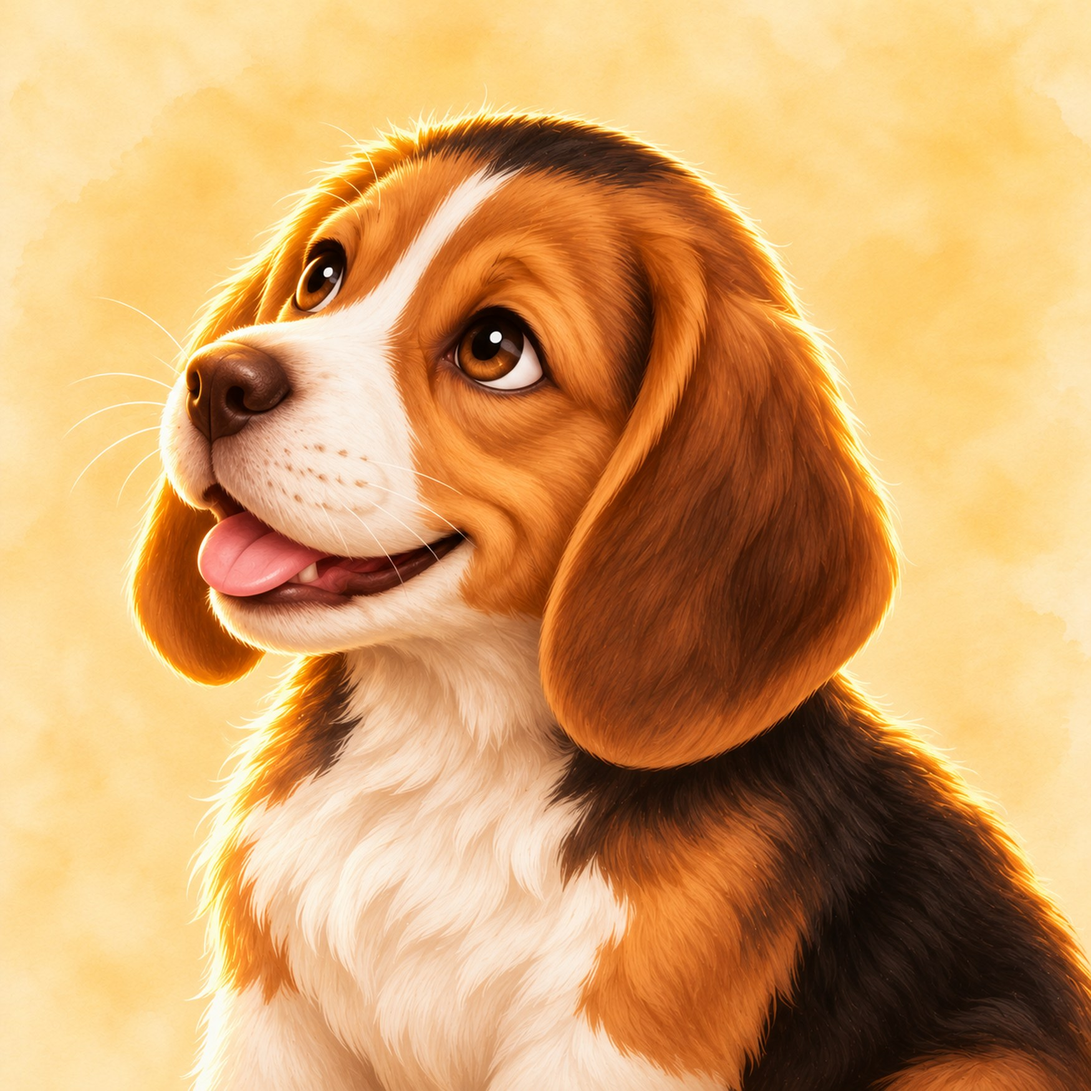
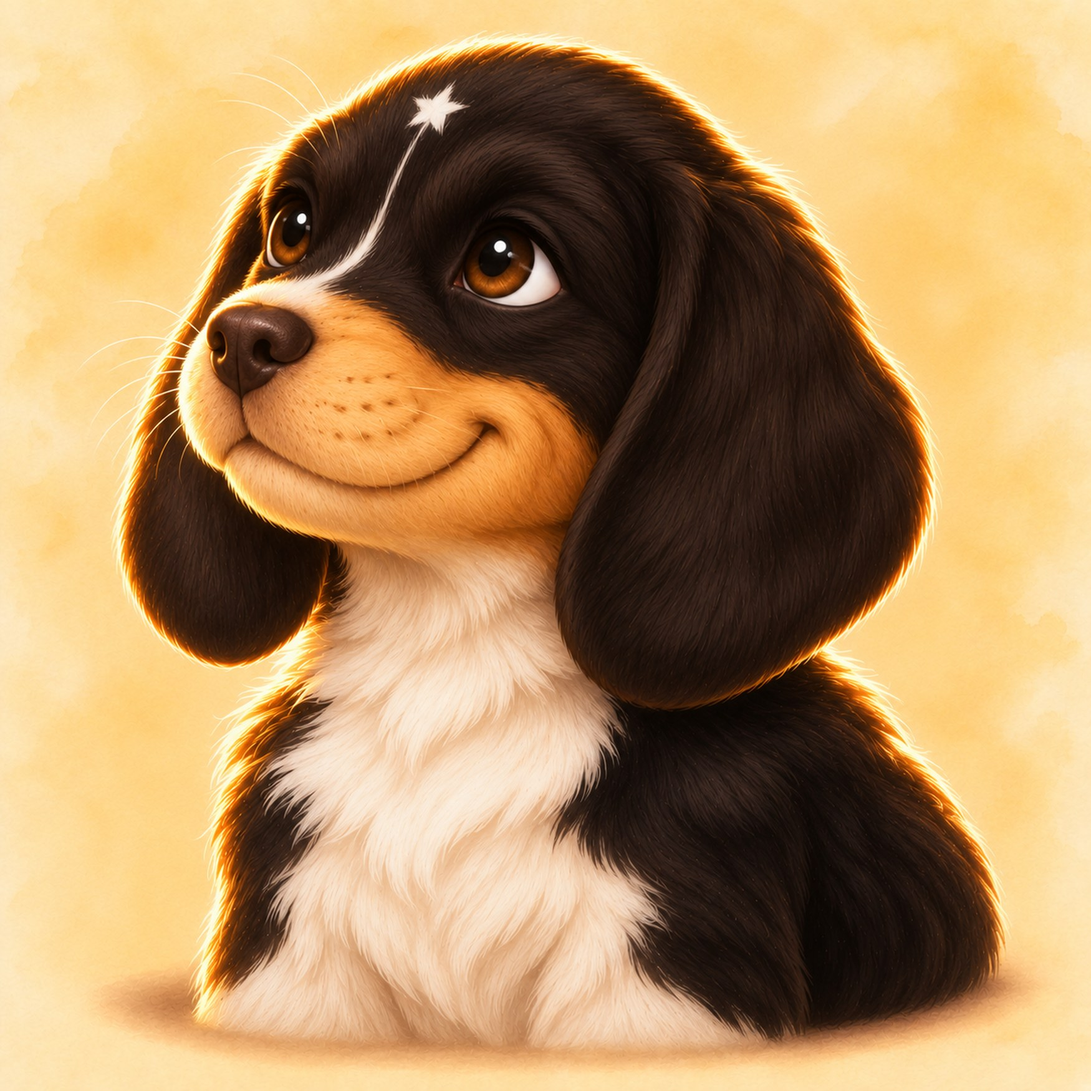
Spike v2 adopted: showcase card + Meet the Cast pages 34-35 swap to the dark-masked v2 pair; v1 media removed
Jon adopted Spike v2 2026-11-20 (dark bandit mask, thin stripe + star, near-black ears, sitting full body) after v1 read as Pixie turned around. Card copy unchanged; only the two image srcs moved. Flipbook pages keep their filenames; book stays 37 pages.

diff --git a/index.html b/index.html
@@ -301,9 +301,9 @@
         <div class="fb-wrap" id="fb-pixie" hidden><img src="media/cast/pixie-fullbody.jpg" alt="Pixie, full body — standing with one paw lifted, white-tipped tail high"></div>
       </div>
       <div class="cast-card">
-        <img src="media/cast/spike-portrait.jpg" alt="Spike, a tricolor beagle puppy with a black cap, a narrow white blaze and mahogany ears">
+        <img src="media/cast/spike-headshot-v2.jpg" alt="Spike, a tricolor beagle puppy with a black cap, a narrow white blaze and mahogany ears">
         <div class="cap"><h3>Spike</h3><p class="blurb">Pixie&rsquo;s playmate, a beagle puppy who answers everything with a play-bow.</p><p>The bold one of the puppy pair &mdash; black cap, full black blanket saddle, chin level and tongue out, ready for a game.</p><button type="button" class="btn fb-toggle" aria-expanded="false" aria-controls="fb-spike">Show full body</button></div>
-        <div class="fb-wrap" id="fb-spike" hidden><img src="media/cast/spike-fullbody.jpg" alt="Spike, full body — in a play-bow, chest down and rear up"></div>
+        <div class="fb-wrap" id="fb-spike" hidden><img src="media/cast/spike-fullbody-v2.jpg" alt="Spike, full body — in a play-bow, chest down and rear up"></div>
       </div>
       <div class="cast-card">
         <img src="media/cast/mustang-portrait.jpg" alt="The ’65 Mustang — a pale silvery-blue 1965 Ford Mustang convertible, top down">
